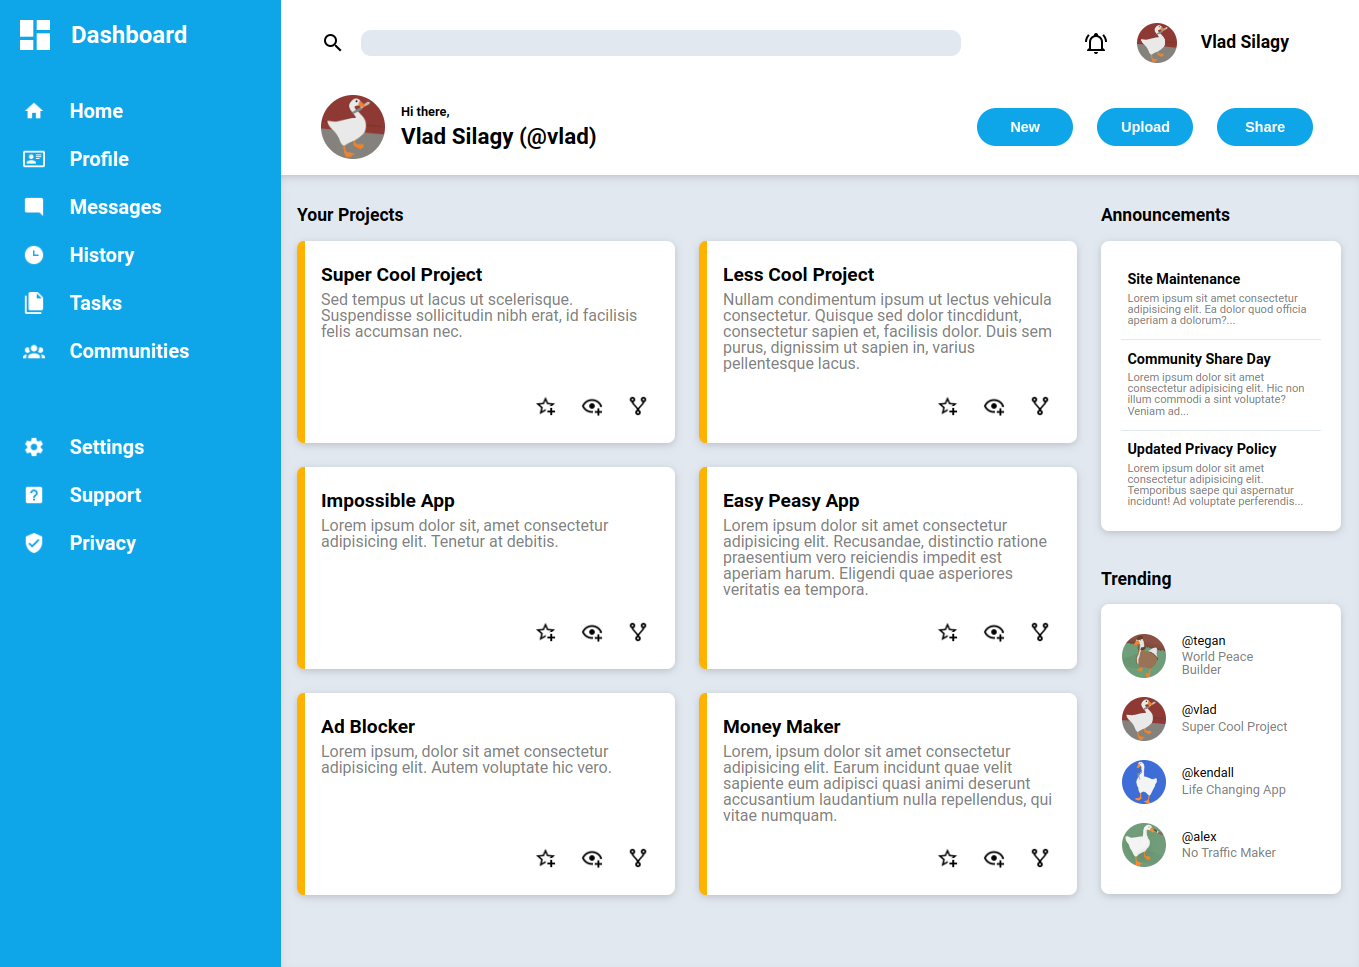
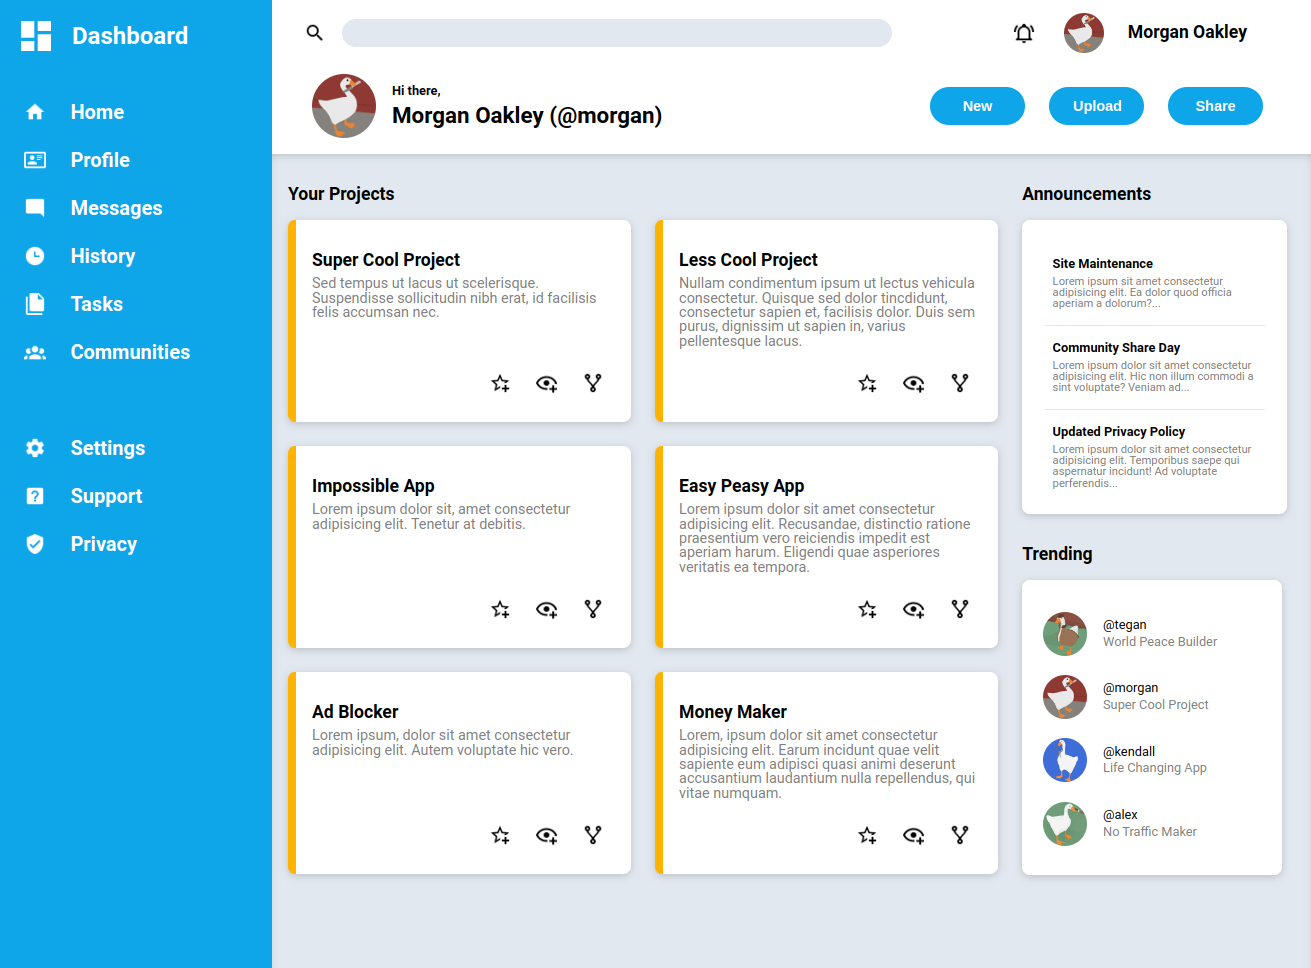
updated dummy name and screenshot

diff --git a/style.css b/style.css
@@ -15,7 +15,7 @@ body {
   height: 100vh;
   width: 100vw;
   display: grid;
-  grid-template-rows: 1fr 8fr;
+  grid-template-rows: 1fr 9fr;
   grid-template-areas: 
     "sidebar header header"
     "sidebar main main";
@@ -28,7 +28,7 @@ body {
   background-color: var(--teal);
   font-weight: 500;
   padding: 1rem;
-  min-width: 250px;
+  min-width: 240px;
 }
 
 .dashboard,
@@ -72,7 +72,7 @@ body {
 .header {
   grid-area: header;
   display: grid;
-  grid-template-rows: 1fr 1fr;
+  grid-template-rows: 1.5fr 2fr;
   background-color: var(--white);
   margin-right: 1rem;
 }
@@ -80,11 +80,10 @@ body {
 .header-top {
   display: flex;
   justify-content: space-between;
-  padding: .5rem;
 }
 
 .header-top .icon {
-  width: 1.5rem;
+  height: 22px;
   padding-right: .3rem;
 }
 
@@ -97,11 +96,11 @@ body {
 }
 
 .search-wrapper input {
-  width: 600px;
+  width: 550px;
   background-color: var(--grey);
-  border-radius: 10px;
+  border-radius: 16px;
   border: none;
-  height: 1.6rem;
+  height: 28px;
 }
 
 .user-wrapper {
@@ -172,10 +171,10 @@ body {
   font-size: .9rem;
   font-weight: 700;
   text-align: center;
-  border-radius: 2rem;
+  border-radius: 20px;
   border: none;
   padding: .7rem 1.5rem;
-  width: 6rem;
+  width: 95px;
   cursor: pointer;
 }
 
@@ -183,8 +182,8 @@ body {
 .main {
   grid-area: main;
   display: grid;
-  grid-template-columns: 3fr 3fr minmax(250px, 2fr);
-  grid-template-rows: min-content 1fr;
+  grid-template-columns: 4fr 4fr 3fr;
+  grid-template-rows: 1fr 1fr;
   grid-template-areas: 
    "projects projects announcements"
    "projects projects trending";
@@ -224,13 +223,13 @@ body {
 }
 
 .card-title {
-  font-size: 1.2rem;
+  font-size: 1.1rem;
   font-weight: 700;
-  padding-top: .5rem;
+  padding-top: 1rem;
 }
 
 .card-text {
-  font-size: 1rem;
+  font-size: .9rem;
   color: grey;
   padding: .5rem 0;
 }
@@ -239,7 +238,7 @@ body {
   display: flex;
   justify-content: flex-end;
   gap: 1.5rem;
-  padding: .6rem;
+  padding: .7rem;
   margin-top: auto;
 }
 
@@ -258,16 +257,15 @@ body {
 
 .aside-top {
   grid-area: announcements;
-  margin-bottom: 1.5rem;
+  margin-bottom: 1rem;
 }
 
 .aside-card {
   background-color: var(--white);
   border-radius: 8px;
-  padding: 1.25rem;
-  margin-right: 1rem;
+  padding: 1.4rem;
   height: 250px;
-  width: 200px;
+  width: 220px;
   box-shadow: rgba(99, 99, 99, 0.3) 0px 2px 8px 0px;
 }
 
@@ -275,7 +273,7 @@ body {
   display: flex;
   flex-direction: column;
   gap: .3rem;
-  padding: .8rem .4rem;
+  padding: 1rem .5rem;
   border-bottom: 1px solid var(--grey);
 }
 
@@ -284,7 +282,7 @@ body {
 }
 
 .aside-title {
-  font-size: .9rem;
+  font-size: .8rem;
   font-weight: 700;
 }
 

diff --git a/index.html b/index.html
@@ -18,7 +18,7 @@
       <div class="user-wrapper">
         <img src="./assets/notification.png" class="icon" alt="notification icon">
         <img src="./assets/goose1.jpg" class="avatar" alt="user avatar">
-        <p class="user-name">Vlad Silagy</p>
+        <p class="user-name">Morgan Oakley</p>
       </div>
     </div>
     <div class="header-bottom">
@@ -26,7 +26,7 @@
         <img src="./assets/goose1.jpg" class="avatar" alt="user profile picture">
         <div class="greeting-wrapper">
           <p class="greeting">Hi there,</p>
-          <p class="user-name-id">Vlad Silagy (@vlad)</p>
+          <p class="user-name-id">Morgan Oakley (@morgan)</p>
         </div>
       </div>
       <div class="buttons">
@@ -176,7 +176,7 @@
           <div class="aside-profile">
             <img src="./assets/goose1.jpg" alt="profile avatar">
             <div class="aside-account">
-              <p class="aside-username">@vlad</p>
+              <p class="aside-username">@morgan</p>
               <p class="aside-user">Super Cool Project</p>
             </div>
           </div>
